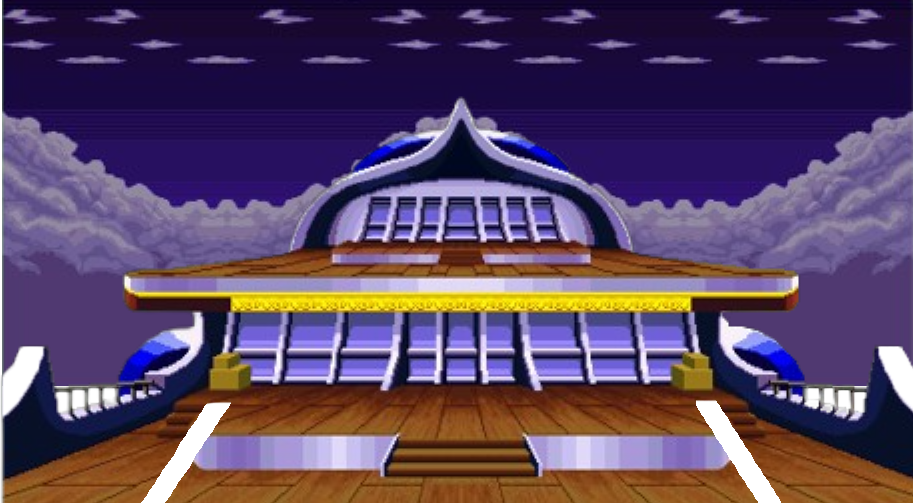
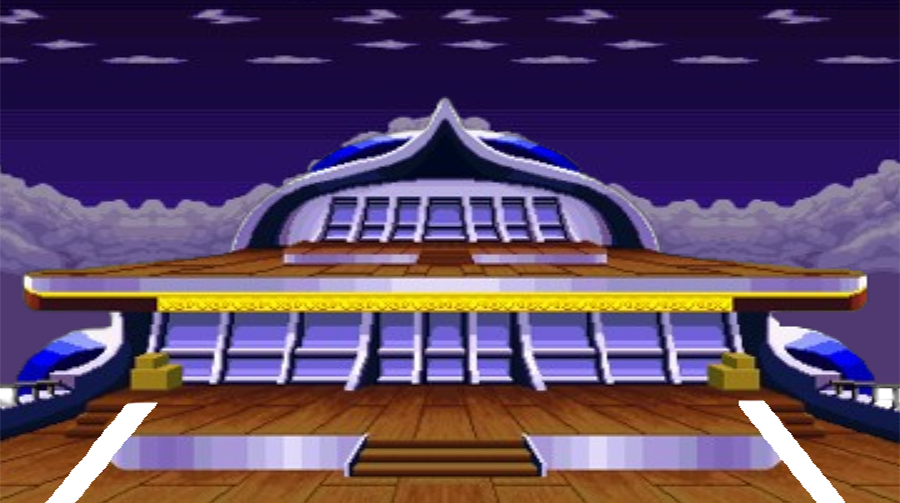
승리 시 스테이지 전환

diff --git a/winlose_mode.py b/winlose_mode.py
@@ -6,27 +6,39 @@ from win import Win
 from lose import Lose
 import game_world
 import game_framework
+
 def init():
     global win
     global lose
     global check
+    global stage
     if play_mode.score.hero_score>play_mode.score.enemy_score:
+
         win=Win()
         game_world.add_object(win,3)
         check=True
-    if play_mode.score.enemy_score>play_mode.score.hero_score:
+    if play_mode.score.enemy_score>=play_mode.score.hero_score:
         lose=Lose()
         game_world.add_object(lose, 3)
         check=False
     pass
 
 def finish():
+    global stage
     if check==True:
         game_world.remove_object(win)
+        game_world.remove_object(play_mode.background)
+        play_mode.hero.win_count+=1;
+        if play_mode.hero.win_count>4:
+            pass#승리화면이동
+        play_mode.create_background(play_mode.hero.win_count)
     else :
         game_world.remove_object(lose)
     game_world.remove_object(play_mode.timer)
     game_world.remove_object(play_mode.enemy)
+    game_world.remove_object(play_mode.score)
+    play_mode.hero.x, play_mode.hero.y = 200, 150
+    play_mode.enemy.x, play_mode.enemy.y = 700, 150
     for n in range(play_mode.hero.attack_count, 4):
         play_mode.hero.remove_arrow(n)
     pass
@@ -52,4 +64,3 @@ def handle_events():
             match event.key:
                 case pico2d.SDLK_ESCAPE:
                     game_framework.pop_mode()
-

diff --git a/play_mode.py b/play_mode.py
@@ -31,11 +31,6 @@ def init():
 
     running = True
 
-    background=Background(4)
-    game_world.add_object(background, 0)
-
-    # create_hero()
-
     score=Score()
     game_world.add_object(score, 2)
 
@@ -63,6 +58,11 @@ def handle_events():
             hero.handle_event(event)
 
 
+def create_background(n):
+    global background
+    background = Background(n)
+    game_world.add_object(background, 0)
+
 def create_hero(n):
     global hero
     if n==1:
@@ -85,7 +85,7 @@ def finish():
 def update():
     game_world.update()
     game_world.handle_collisions()
-    if timer.ten_frame >= 1:
+    if timer.ten_frame >= 2:
         print('time_out')
         game_framework.push_mode(winlose_mode)
 

diff --git a/select_mode.py b/select_mode.py
@@ -47,6 +47,7 @@ def handle_events():
             game_framework.quit()
         elif (event.type, event.key) == (SDL_KEYDOWN, SDLK_SPACE):
             play_mode.create_hero(selector_count)
+            play_mode.create_background(0)
             game_framework.change_mode(play_mode)
         elif (event.type, event.key) == (SDL_KEYDOWN, SDLK_RIGHT):
             if selector_count<4:

diff --git a/hero1.py b/hero1.py
@@ -323,7 +323,7 @@ class StateMachine:
 
 class Hero1:
     def __init__(self):
-
+        self.win_count=0
         self.x, self.y = 200, 150
         self.frame = 0
         self.dir = 0
